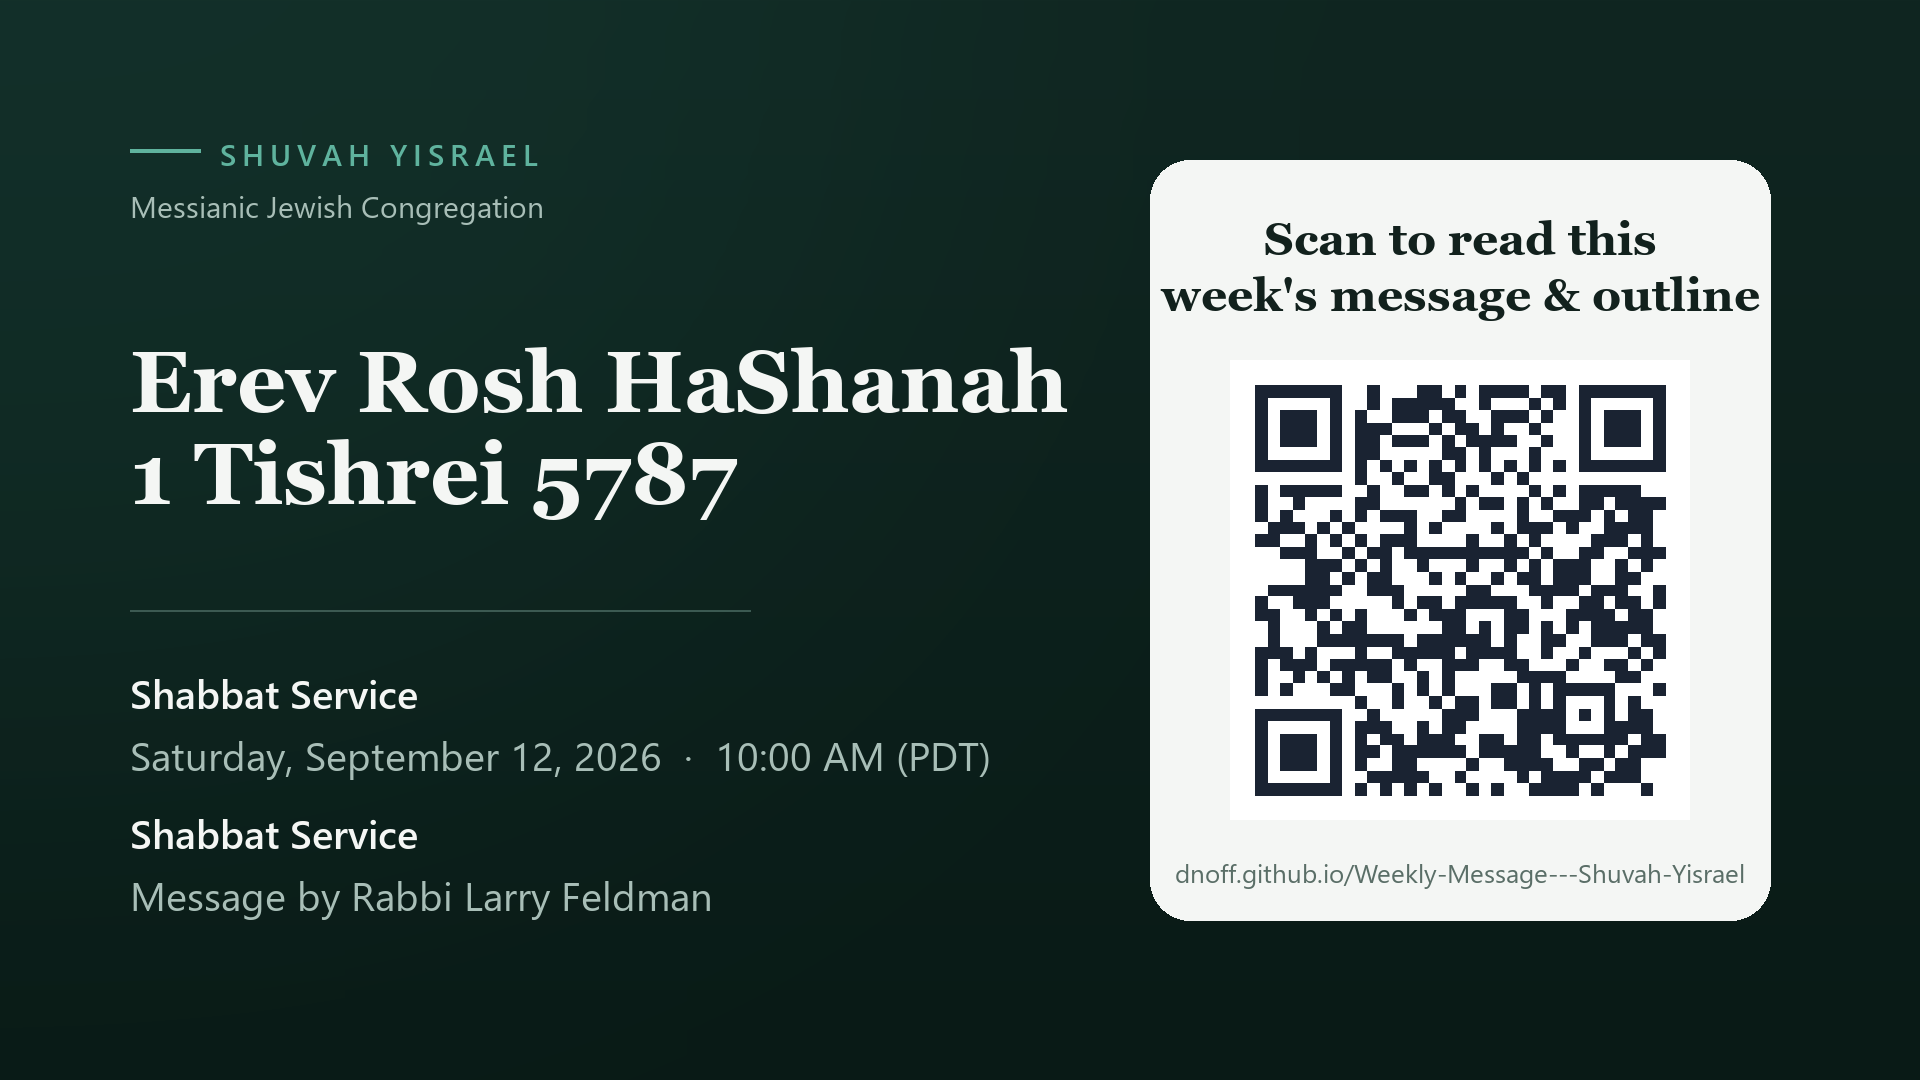
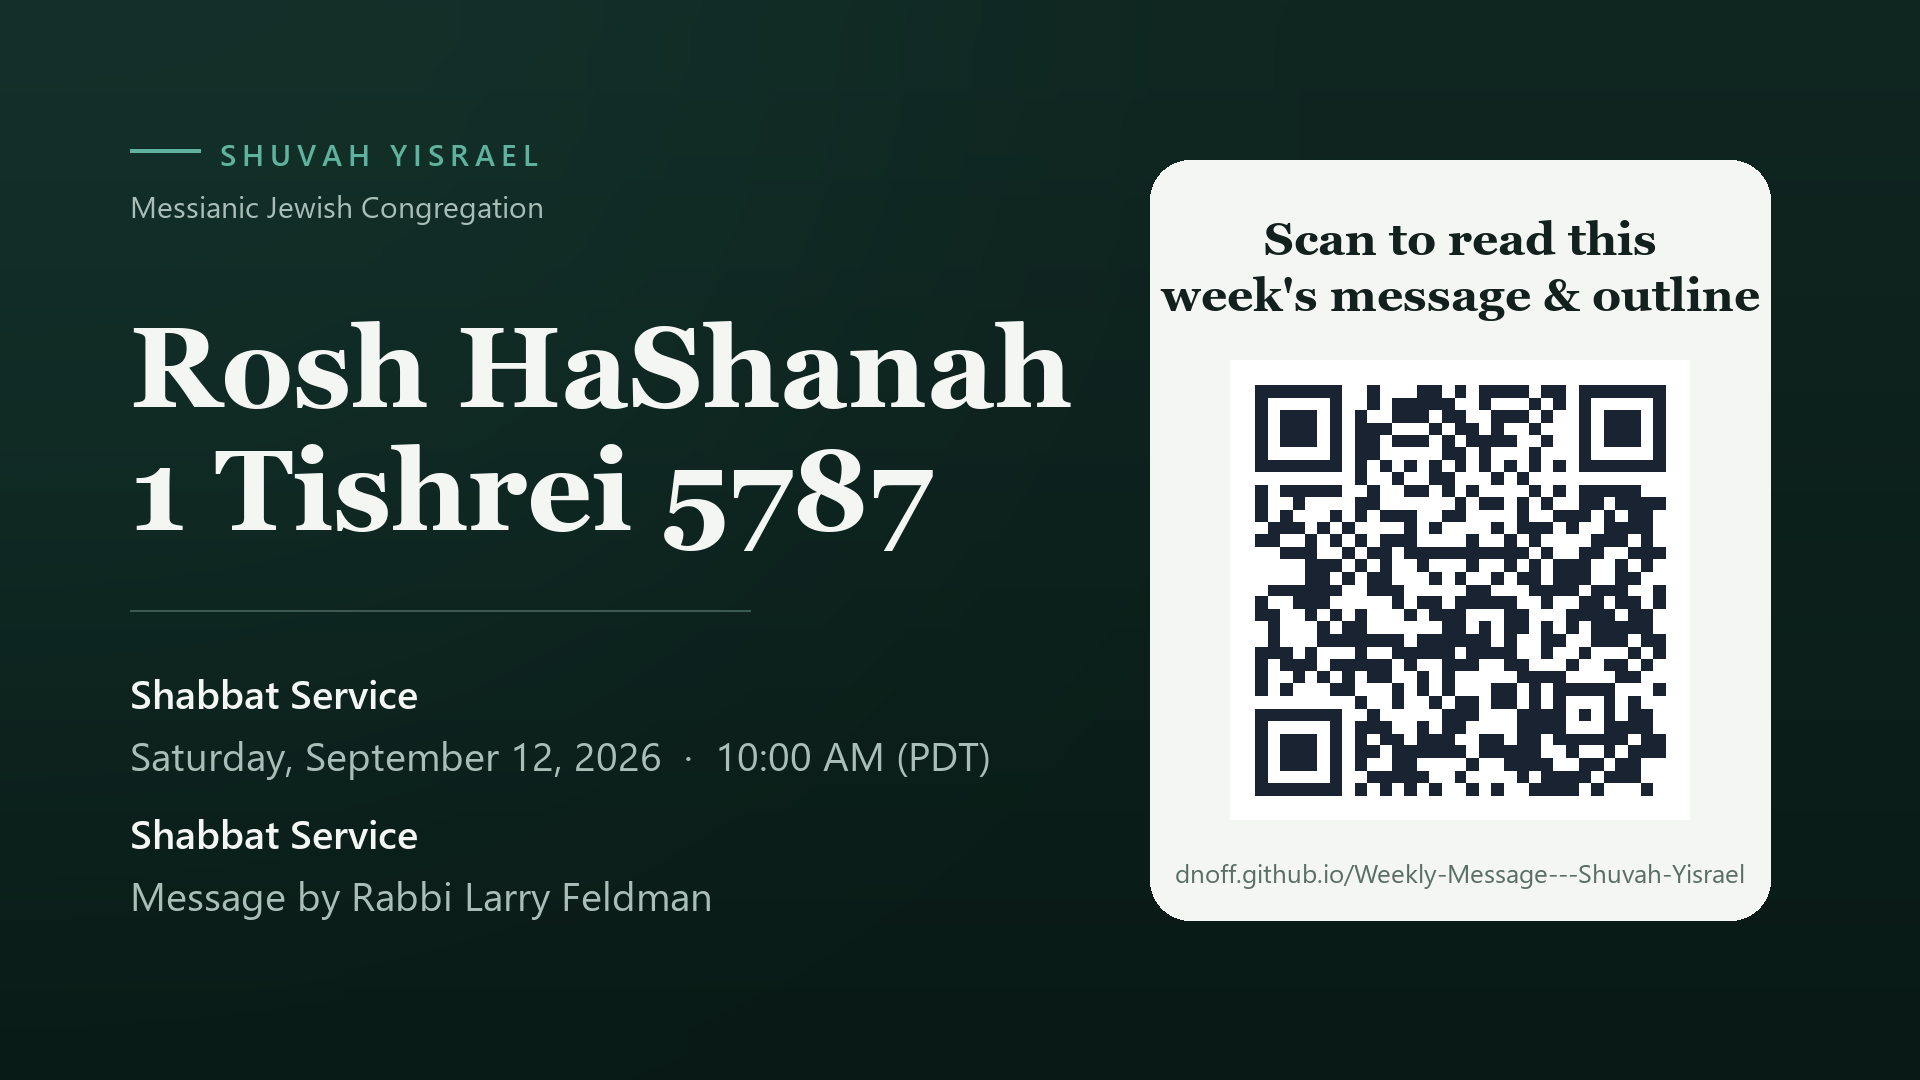
Remove Erev from Rosh HaShanah title. EOF

Changed region(s): [[0.0625, 0.275, 0.5625, 0.5194]]

diff --git a/docs/index.html b/docs/index.html
@@ -3,7 +3,7 @@
 <head>
   <meta charset="utf-8" />
   <meta name="viewport" content="width=device-width, initial-scale=1" />
-  <title>Erev Rosh HaShanah — 1 Tishrei 5787 · Shuvah Yisrael</title>
+  <title>Rosh HaShanah — 1 Tishrei 5787 · Shuvah Yisrael</title>
   <link rel="preconnect" href="https://fonts.googleapis.com" />
   <link rel="preconnect" href="https://fonts.gstatic.com" crossorigin />
   <link href="https://fonts.googleapis.com/css2?family=Fraunces:opsz,wght@9..144,500;9..144,700&family=Source+Sans+3:wght@400;600&display=swap" rel="stylesheet" />
@@ -380,7 +380,7 @@ body {
     <header class="top">
       <p class="brand">Shuvah Yisrael</p>
       <p class="badge">This week</p>
-      <h1>Erev Rosh HaShanah — 1 Tishrei 5787</h1>
+      <h1>Rosh HaShanah — 1 Tishrei 5787</h1>
       <p class="meta">Rabbi Larry Feldman · Week of September 12, 2026 · 1 Tishrei 5787</p>
     </header>
     <article class="content">
@@ -406,7 +406,7 @@ body {
 <p>Ruth 4 and 1 Samuel 1 – 6</p>
 <hr>
 <h2>Message Outline</h2>
-<p><em>Erev Rosh HaShanah</em><br>Rabbi Larry Feldman · September 12, 2026 · 1 Tishrei 5787</p>
+<p><em>Rosh HaShanah</em><br>Rabbi Larry Feldman · September 12, 2026 · 1 Tishrei 5787</p>
 <nav class="outline-legend" aria-label="Message outline">
     <p>Jump to a section</p>
     <div><a href="#outline-i"><span>I</span>The different names for the holiday</a><a href="#outline-ii"><span>II</span>The Scriptures read for the holiday</a><a href="#outline-iii"><span>III</span>The observances during the holiday</a><a href="#outline-iv"><span>IV</span>The Jewish understanding of the holiday</a><a href="#outline-v"><span>V</span>The Messianic meaning of the holiday</a></div>

diff --git a/docs/weeks/2026-09-12/index.html b/docs/weeks/2026-09-12/index.html
@@ -3,7 +3,7 @@
 <head>
   <meta charset="utf-8" />
   <meta name="viewport" content="width=device-width, initial-scale=1" />
-  <title>Erev Rosh HaShanah — 1 Tishrei 5787 · Shuvah Yisrael</title>
+  <title>Rosh HaShanah — 1 Tishrei 5787 · Shuvah Yisrael</title>
   <link rel="preconnect" href="https://fonts.googleapis.com" />
   <link rel="preconnect" href="https://fonts.gstatic.com" crossorigin />
   <link href="https://fonts.googleapis.com/css2?family=Fraunces:opsz,wght@9..144,500;9..144,700&family=Source+Sans+3:wght@400;600&display=swap" rel="stylesheet" />
@@ -380,7 +380,7 @@ body {
     <header class="top">
       <p class="brand">Shuvah Yisrael</p>
       <p class="badge">This week</p>
-      <h1>Erev Rosh HaShanah — 1 Tishrei 5787</h1>
+      <h1>Rosh HaShanah — 1 Tishrei 5787</h1>
       <p class="meta">Rabbi Larry Feldman · Week of September 12, 2026 · 1 Tishrei 5787</p>
     </header>
     <article class="content">
@@ -406,7 +406,7 @@ body {
 <p>Ruth 4 and 1 Samuel 1 – 6</p>
 <hr>
 <h2>Message Outline</h2>
-<p><em>Erev Rosh HaShanah</em><br>Rabbi Larry Feldman · September 12, 2026 · 1 Tishrei 5787</p>
+<p><em>Rosh HaShanah</em><br>Rabbi Larry Feldman · September 12, 2026 · 1 Tishrei 5787</p>
 <nav class="outline-legend" aria-label="Message outline">
     <p>Jump to a section</p>
     <div><a href="#outline-i"><span>I</span>The different names for the holiday</a><a href="#outline-ii"><span>II</span>The Scriptures read for the holiday</a><a href="#outline-iii"><span>III</span>The observances during the holiday</a><a href="#outline-iv"><span>IV</span>The Jewish understanding of the holiday</a><a href="#outline-v"><span>V</span>The Messianic meaning of the holiday</a></div>

diff --git a/docs/weeks/index.html b/docs/weeks/index.html
@@ -384,7 +384,7 @@ body {
     </header>
     <ul class="week-list"><li>
       <a href="2026-09-12/">
-        <span class="week-title">Erev Rosh HaShanah — 1 Tishrei 5787</span>
+        <span class="week-title">Rosh HaShanah — 1 Tishrei 5787</span>
         <span class="week-date">September 12, 2026 · 1 Tishrei 5787</span>
       </a>
     </li>

diff --git a/weeks/2026-09-12.md b/weeks/2026-09-12.md
@@ -1,5 +1,5 @@
 ---
-title: Erev Rosh HaShanah — 1 Tishrei 5787
+title: Rosh HaShanah — 1 Tishrei 5787
 date: 2026-09-12
 weekOf: September 12, 2026 · 1 Tishrei 5787
 ---
@@ -37,7 +37,7 @@ Ruth 4 and 1 Samuel 1 – 6
 
 ## Message Outline
 
-*Erev Rosh HaShanah*  
+*Rosh HaShanah*  
 Rabbi Larry Feldman · September 12, 2026 · 1 Tishrei 5787
 
 ### I. The different names for the holiday
